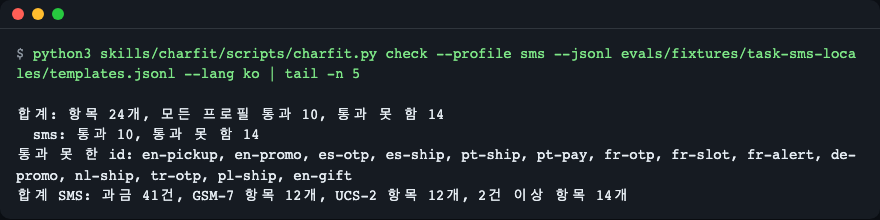
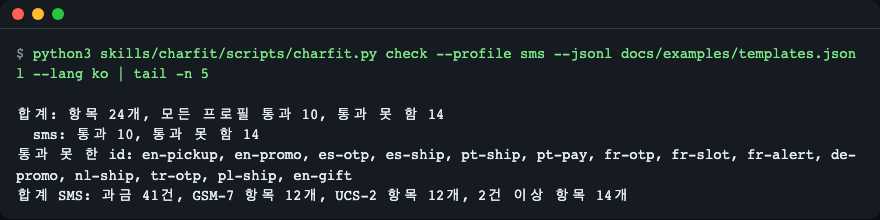
docs(readme): refresh evaluation table and X note
The table shows the new measurement (0/5 solved without the skill).
The X note now says the evaluation set uses two X cases.

Changed region(s): [[0.0307, 0.3, 0.4295, 0.3545], [0.7057, 0.2182, 0.9818, 0.2727]]

diff --git a/README.ko.md b/README.ko.md
@@ -62,7 +62,7 @@ python3 skills/charfit/scripts/charfit.py count "It’s ready…"
 **1. 템플릿 묶음** (`check --jsonl`; 종료 코드 0 = 모든 항목 통과, 1 = 통과 못 한 항목이 있음):
 
 ```
-$ python3 skills/charfit/scripts/charfit.py check --profile sms --jsonl evals/fixtures/task-sms-locales/templates.jsonl --lang ko
+$ python3 skills/charfit/scripts/charfit.py check --profile sms --jsonl docs/examples/templates.jsonl --lang ko
 통과 en-otp (1번째 줄): sms SMS 건수 1 (GSM-7, 111칸, 조각 시작 위치 0)
 통과 en-ship (2번째 줄): sms SMS 건수 1 (GSM-7, 104칸, 조각 시작 위치 0)
 실패 en-pickup (3번째 줄): sms SMS 건수 2 (UCS-2, 120칸, 조각 시작 위치 0, 67)
@@ -73,7 +73,7 @@ $ python3 skills/charfit/scripts/charfit.py check --profile sms --jsonl evals/fi
 위는 실제 출력의 앞부분이고, 끝부분은 다음과 같습니다.
 
 ```
-$ python3 skills/charfit/scripts/charfit.py check --profile sms --jsonl evals/fixtures/task-sms-locales/templates.jsonl --lang ko
+$ python3 skills/charfit/scripts/charfit.py check --profile sms --jsonl docs/examples/templates.jsonl --lang ko
 ...
 합계: 항목 24개, 모든 프로필 통과 10, 통과 못 함 14
   sms: 통과 10, 통과 못 함 14
@@ -227,8 +227,8 @@ $ python3 skills/charfit/scripts/charfit.py check --profile sms --json "Tu códi
 | 필요할 때 불림 | 12/12 |
 | 필요 없을 때 안 불림 | 12/12 |
 | 스킬로 푼 작업 | 5/5 |
-| 스킬 없이 푼 작업(기준선) | 2/5 |
-| 평균 점수 차이(Δ) | +0.35 |
+| 스킬 없이 푼 작업(기준선) | 0/5 |
+| 평균 점수 차이(Δ) | +0.57 |
 | 가짜 스크립트를 잡아낸 비율 | 5/5 |
 | Codex CLI | 미검증 |
 
@@ -276,7 +276,7 @@ flowchart LR
 
 - 잘 맞는 경우: 여러 언어 템플릿의 조각 합계가 비용을 좌우할 때, 긴 공지의 분할 지점이 필요할 때, CMS 에서 붙여 넣은 캠페인 문구를 정리할 때, 엄격한 EUC-KR 을 통과해야 하는 국내 SMS/LMS.
 - 다루지 않는 것: 단어 수, LLM 토큰 수, 메시지 발송, 번역, 국가별 GSM shift 표, 수신자 부담 조각 한도(미국·캐나다), 그래핌 수 세기.
-- X 에 관한 주의: `x-post` 프로필은 X 가 공개한 가중치 규칙의 근사이고 twitter-text 3.1.0 과 대조했습니다. 이모지 시퀀스와 국가 코드 파일 이름은 모든 X 클라이언트와 같다고 보장하지 않으며, 이 도구의 중심 기능이 아닙니다.
+- X 에 관한 주의: `x-post` 프로필은 X 가 공개한 가중치 규칙의 근사이고 twitter-text 3.1.0 과 대조했습니다. 이모지 시퀀스와 국가 코드 파일 이름은 모든 X 클라이언트와 같다고 보장하지 않습니다. 평가 세트에는 X 케이스 2개가 들어 있습니다.
 - LLM 토큰 수는 호출하는 모델의 토크나이저를 쓰고, SMS 발송은 사업자의 API 를 쓰세요. `charfit` 은 측정만 합니다.
 
 ## 개발

diff --git a/README.md b/README.md
@@ -62,7 +62,7 @@ For a file of templates, add the file name and the agent runs the batch mode. Th
 **1. A batch of templates** (`check --jsonl`; exit code 0 = every item passes, 1 = at least one does not):
 
 ```
-$ python3 skills/charfit/scripts/charfit.py check --profile sms --jsonl evals/fixtures/task-sms-locales/templates.jsonl --lang en
+$ python3 skills/charfit/scripts/charfit.py check --profile sms --jsonl docs/examples/templates.jsonl --lang en
 PASS en-otp (line 1): sms 1 SMS segment(s) (GSM-7, 111 units, parts start at index 0)
 PASS en-ship (line 2): sms 1 SMS segment(s) (GSM-7, 104 units, parts start at index 0)
 FAIL en-pickup (line 3): sms 2 SMS segment(s) (UCS-2, 120 units, parts start at index 0, 67)
@@ -223,8 +223,8 @@ Input files must be UTF-8. If a file is not, `charfit` exits with `2` and says h
 | Triggers when it should | 12/12 |
 | Stays quiet when it should not | 12/12 |
 | Tasks solved with the skill | 5/5 |
-| Tasks solved without it (baseline) | 2/5 |
-| Mean score gain (Δ) | +0.35 |
+| Tasks solved without it (baseline) | 0/5 |
+| Mean score gain (Δ) | +0.57 |
 | Tasks that catch a broken script | 5/5 |
 | Codex CLI | not verified |
 
@@ -272,7 +272,7 @@ The full rules are in [`skills/charfit/references/rules.md`](skills/charfit/refe
 
 - Fits: template batches in several languages where the segment total changes the bill, long announcements where you need the split points, campaign texts pasted from a CMS, Korean SMS/LMS that must survive strict EUC-KR.
 - Does not cover: word counts, LLM token counts, sending messages, translation, per-country GSM shift tables, recipient-pays segment limits (US/Canada), grapheme counting.
-- Note on X: the `x-post` profile is an approximation of X's published weighting rules, cross-checked against twitter-text 3.1.0. Emoji sequences and country-code file names are not guaranteed to match every X client, and this is not the focus of the tool.
+- Note on X: the `x-post` profile is an approximation of X's published weighting rules, cross-checked against twitter-text 3.1.0. Emoji sequences and country-code file names are not guaranteed to match every X client; the evaluation set still uses it for two X cases.
 - For LLM token counts use the tokenizer of the model you call. To send SMS use your provider's API; `charfit` only measures.
 
 ## Development
